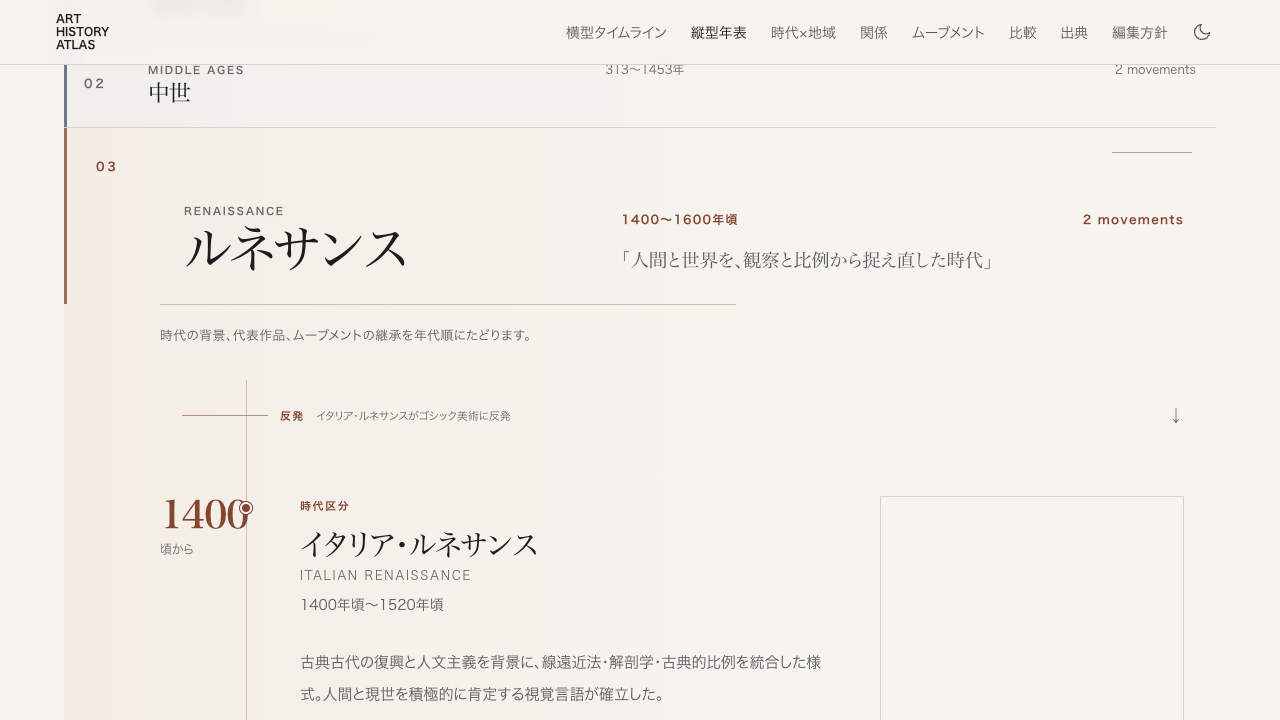
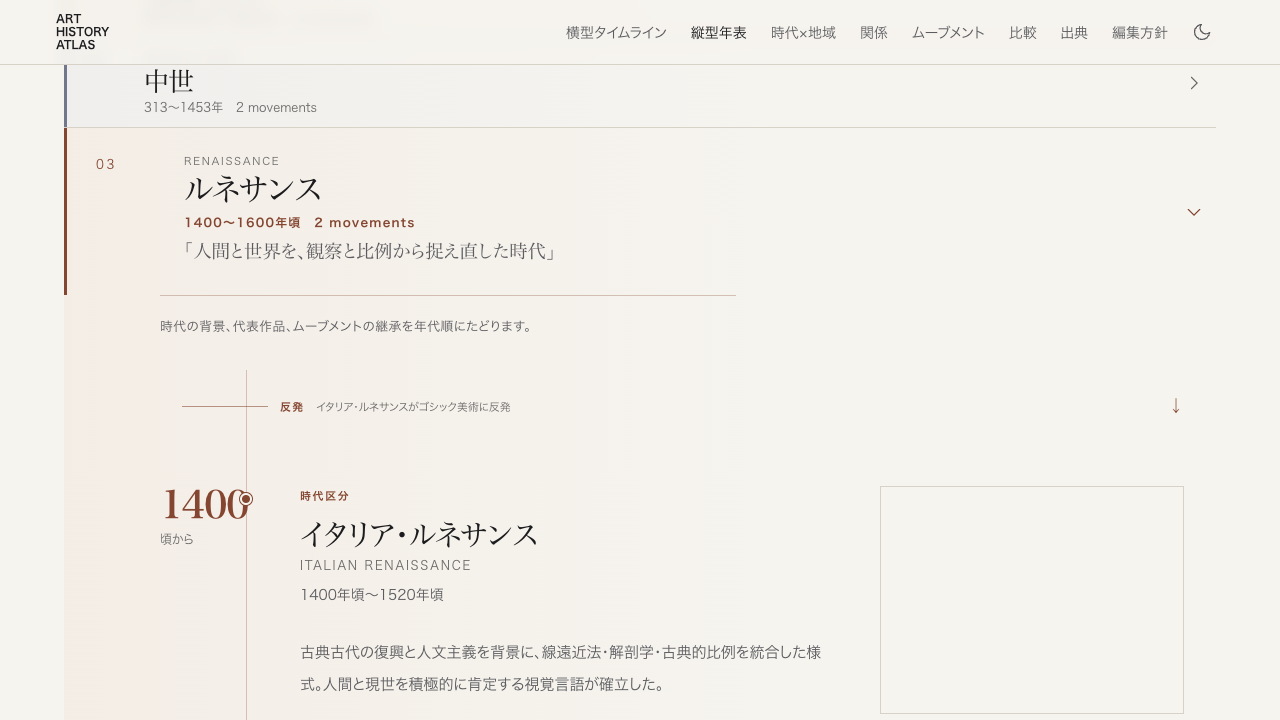
Refine chronology era hierarchy

diff --git a/src/app/globals.css b/src/app/globals.css
@@ -1592,10 +1592,10 @@ html.dark .timeline-era-option[aria-current='true'] {
   display: grid;
   width: 100%;
   min-height: 5.5rem;
-  grid-template-columns: 3rem minmax(0, 1fr);
-  gap: 1rem;
+  grid-template-columns: 3rem minmax(0, 1fr) 2.75rem;
+  gap: 0.75rem;
   align-items: center;
-  padding: 0.65rem 1.25rem;
+  padding: 0.75rem 0 0.75rem 1.25rem;
   overflow: hidden;
   color: rgb(var(--c-ink));
   text-align: left;
@@ -1609,18 +1609,14 @@ html.dark .timeline-era-option[aria-current='true'] {
   content: '';
 }
 
-.chronology-era__hero::after {
-  display: none;
-  position: absolute;
-  inset: 1.5rem 1.5rem auto auto;
-  width: 5rem;
-  height: 1px;
-  background: rgb(var(--era-accent) / 0.5);
-  content: '';
-}
-
 .chronology-era__hero:hover {
   background: rgb(var(--era-wash) / 0.2);
+}
+
+.chronology-era__hero:focus-visible {
+  z-index: 1;
+  outline-color: rgb(var(--era-accent));
+  outline-offset: -2px;
 }
 
 .chronology-era__hero:active {
@@ -1628,34 +1624,33 @@ html.dark .timeline-era-option[aria-current='true'] {
 }
 
 .chronology-era__number {
+  align-self: start;
+  padding-top: 0.1rem;
   color: rgb(var(--c-faint));
   font-size: 0.75rem;
-  font-weight: 700;
+  font-weight: 500;
   letter-spacing: 0.22em;
+  line-height: 1.1;
 }
 
 .chronology-era__identity {
   display: grid;
   min-width: 0;
-  grid-template-columns: minmax(14rem, 0.72fr) minmax(0, 1fr);
-  gap: 2rem;
-  align-items: baseline;
+  gap: 0.375rem;
 }
 
 .chronology-era__names {
   display: grid;
   min-width: 0;
-  gap: 0.2rem;
+  gap: 0.25rem;
 }
 
 .chronology-era__title-en {
-  overflow: hidden;
   color: rgb(var(--c-faint));
-  font-size: 0.65rem;
-  font-weight: 700;
+  font-size: 0.65625rem;
+  font-weight: 500;
   letter-spacing: 0.16em;
-  line-height: 1.2;
-  text-overflow: ellipsis;
+  line-height: 1.1;
   text-transform: uppercase;
   white-space: nowrap;
 }
@@ -1668,54 +1663,65 @@ html.dark .timeline-era-option[aria-current='true'] {
 .chronology-era__meta {
   display: flex;
   align-items: center;
-  justify-content: space-between;
-  gap: 1.25rem;
+  justify-content: flex-start;
+  gap: 0.8rem;
   color: rgb(var(--c-faint));
   font-size: 0.75rem;
-  line-height: 1.4;
+  font-weight: 400;
+  line-height: 1.1;
   white-space: nowrap;
 }
 
 .chronology-era__title {
   font-family: var(--font-serif);
-  font-size: 1.4rem;
+  font-size: 1.625rem;
   font-weight: 400;
-  line-height: 1.12;
+  line-height: 1.05;
   letter-spacing: -0.018em;
+}
+
+.chronology-era__chevron {
+  display: grid;
+  width: 2.75rem;
+  height: 2.75rem;
+  align-items: center;
+  justify-content: center;
+  justify-self: end;
+  color: rgb(var(--c-faint));
+}
+
+.chronology-era__chevron svg {
+  width: 1.25rem;
+  height: 1.25rem;
+  transition: transform 160ms ease;
 }
 
 .chronology-era__catchphrase {
   display: block;
-  margin-top: 1rem;
+  margin-top: 0.35rem;
   color: rgb(var(--c-muted));
   font-family: var(--font-serif);
   font-size: clamp(0.95rem, 2vw, 1.15rem);
 }
 
 [data-era-expanded='true'] .chronology-era__hero {
-  min-height: 11rem;
-  grid-template-columns: 4rem minmax(0, 1fr);
+  min-height: 9.5rem;
+  grid-template-columns: 4rem minmax(0, 1fr) 2.75rem;
   gap: 1.5rem;
-  align-items: end;
-  padding: 1.75rem 2rem;
-}
-
-[data-era-expanded='true'] .chronology-era__hero::after {
-  display: block;
+  align-items: center;
+  padding: 1.75rem 0 1.75rem 2rem;
 }
 
 [data-era-expanded='true'] .chronology-era__number {
-  align-self: start;
   color: rgb(var(--era-accent));
 }
 
 [data-era-expanded='true'] .chronology-era__identity {
-  grid-template-columns: minmax(12rem, 0.72fr) minmax(0, 1fr);
-  align-items: end;
+  gap: 0.6rem;
 }
 
 [data-era-expanded='true'] .chronology-era__title {
-  font-size: clamp(2.25rem, 4.5vw, 3.25rem);
+  font-size: clamp(1.75rem, 3vw, 2rem);
   font-weight: 500;
   line-height: 1.08;
   letter-spacing: -0.025em;
@@ -1726,6 +1732,18 @@ html.dark .timeline-era-option[aria-current='true'] {
   font-size: 0.75rem;
   font-weight: 700;
   letter-spacing: 0.1em;
+}
+
+[data-era-expanded='true'] .chronology-era__hero::before {
+  background: rgb(var(--era-accent));
+}
+
+[data-era-expanded='true'] .chronology-era__chevron {
+  color: rgb(var(--era-accent));
+}
+
+[data-era-expanded='true'] .chronology-era__chevron svg {
+  transform: rotate(90deg);
 }
 
 .chronology-exhibit {
@@ -2208,35 +2226,33 @@ html.dark .timeline-era-option[aria-current='true'] {
   }
 
   .chronology-era__hero {
-    min-height: 4.75rem;
-    grid-template-columns: 2rem minmax(0, 1fr);
+    min-height: 5.25rem;
+    grid-template-columns: 2rem minmax(0, 1fr) 2.75rem;
     gap: 0.65rem;
     align-items: center;
-    padding: 0.45rem 1rem 0.45rem 1.25rem;
-  }
-
-  .chronology-era__hero::after {
-    inset: 1rem 1rem auto auto;
-    width: 2.5rem;
+    padding: 0.75rem 0 0.75rem 1.25rem;
   }
 
   .chronology-era__identity {
-    display: block;
+    display: grid;
+    gap: 0.375rem;
   }
 
   .chronology-era__title-en {
-    font-size: 0.6rem;
+    font-size: 0.625rem;
+    letter-spacing: 0.12em;
   }
 
   .chronology-era__title {
-    font-size: 1.25rem;
+    font-size: 1.5rem;
+    line-height: 1.05;
   }
 
   .chronology-era__meta {
     justify-content: flex-start;
     gap: 0.8rem;
-    margin-top: 0.3rem;
-    font-size: 0.6875rem;
+    margin-top: 0;
+    font-size: 0.75rem;
   }
 
   .chronology-era__catchphrase {
@@ -2247,15 +2263,15 @@ html.dark .timeline-era-option[aria-current='true'] {
   }
 
   [data-era-expanded='true'] .chronology-era__hero {
-    min-height: 10.5rem;
-    grid-template-columns: 2rem minmax(0, 1fr);
-    gap: 1rem;
-    align-items: start;
-    padding: 1.25rem 1.25rem 1.35rem 1.5rem;
+    min-height: 9.5rem;
+    grid-template-columns: 2rem minmax(0, 1fr) 2.75rem;
+    gap: 0.65rem;
+    align-items: center;
+    padding: 1.25rem 0 1.35rem 1.5rem;
   }
 
   [data-era-expanded='true'] .chronology-era__title {
-    font-size: clamp(1.85rem, 9vw, 2.5rem);
+    font-size: 1.75rem;
   }
 
   [data-era-expanded='true'] .chronology-era__meta {

diff --git a/src/components/ChronologyView.tsx b/src/components/ChronologyView.tsx
@@ -333,6 +333,7 @@ export function ChronologyView({ movements }: { movements: Movement[] }) {
                 aria-controls={panelId}
                 onClick={() => toggleEra(era.id)}
               >
+                <span className="sr-only">第{eraIndex + 1}章</span>
                 <span className="chronology-era__number" aria-hidden="true">
                   {String(eraIndex + 1).padStart(2, '0')}
                 </span>
@@ -358,37 +359,55 @@ export function ChronologyView({ movements }: { movements: Movement[] }) {
                     )}
                   </span>
                 </span>
+                <span className="chronology-era__chevron" aria-hidden="true">
+                  <svg
+                    width="20"
+                    height="20"
+                    viewBox="0 0 24 24"
+                    aria-hidden="true"
+                    fill="none"
+                    stroke="currentColor"
+                    strokeWidth="1.5"
+                    strokeLinecap="round"
+                    strokeLinejoin="round"
+                  >
+                    <path d="m9 5 7 7-7 7" />
+                  </svg>
+                </span>
               </button>
 
-              {isExpanded && (
-                <div
-                  id={panelId}
-                  className="chronology-exhibit"
-                  data-era-panel={era.id}
-                >
-                  <p className="chronology-exhibit__intro">
-                    時代の背景、代表作品、ムーブメントの継承を年代順にたどります。
-                  </p>
-                  <div className="chronology-exhibit__rail">
-                    {entries.map((entry) =>
-                      entry.kind === 'event' ? (
-                        <HistoricEventEntry
-                          key={`event-${entry.event.id}`}
-                          event={entry.event}
-                          movementById={movementById}
-                        />
-                      ) : (
-                        <MovementEntry
-                          key={`movement-${entry.movement.id}`}
-                          movement={entry.movement}
-                          allMovements={movements}
-                          visibleMovements={visible}
-                        />
-                      ),
-                    )}
-                  </div>
-                </div>
-              )}
+              <div
+                id={panelId}
+                className="chronology-exhibit"
+                data-era-panel={isExpanded ? era.id : undefined}
+                hidden={!isExpanded}
+              >
+                {isExpanded && (
+                  <>
+                    <p className="chronology-exhibit__intro">
+                      時代の背景、代表作品、ムーブメントの継承を年代順にたどります。
+                    </p>
+                    <div className="chronology-exhibit__rail">
+                      {entries.map((entry) =>
+                        entry.kind === 'event' ? (
+                          <HistoricEventEntry
+                            key={`event-${entry.event.id}`}
+                            event={entry.event}
+                            movementById={movementById}
+                          />
+                        ) : (
+                          <MovementEntry
+                            key={`movement-${entry.movement.id}`}
+                            movement={entry.movement}
+                            allMovements={movements}
+                            visibleMovements={visible}
+                          />
+                        ),
+                      )}
+                    </div>
+                  </>
+                )}
+              </div>
             </section>
           );
         })}

diff --git a/src/lib/chronology-presentation.ts b/src/lib/chronology-presentation.ts
@@ -56,7 +56,7 @@ export const CHRONOLOGY_ERAS: ChronologyEra[] = [
   {
     id: 'baroque-rococo',
     label: ERA_LABELS['baroque-rococo'],
-    labelEn: '17th-18th Centuries',
+    labelEn: '17th–18th Centuries',
     range: '1600〜1830年頃',
     catchphrase: '権力、信仰、市民生活が多様な舞台を生んだ時代',
     tone: 'court',
